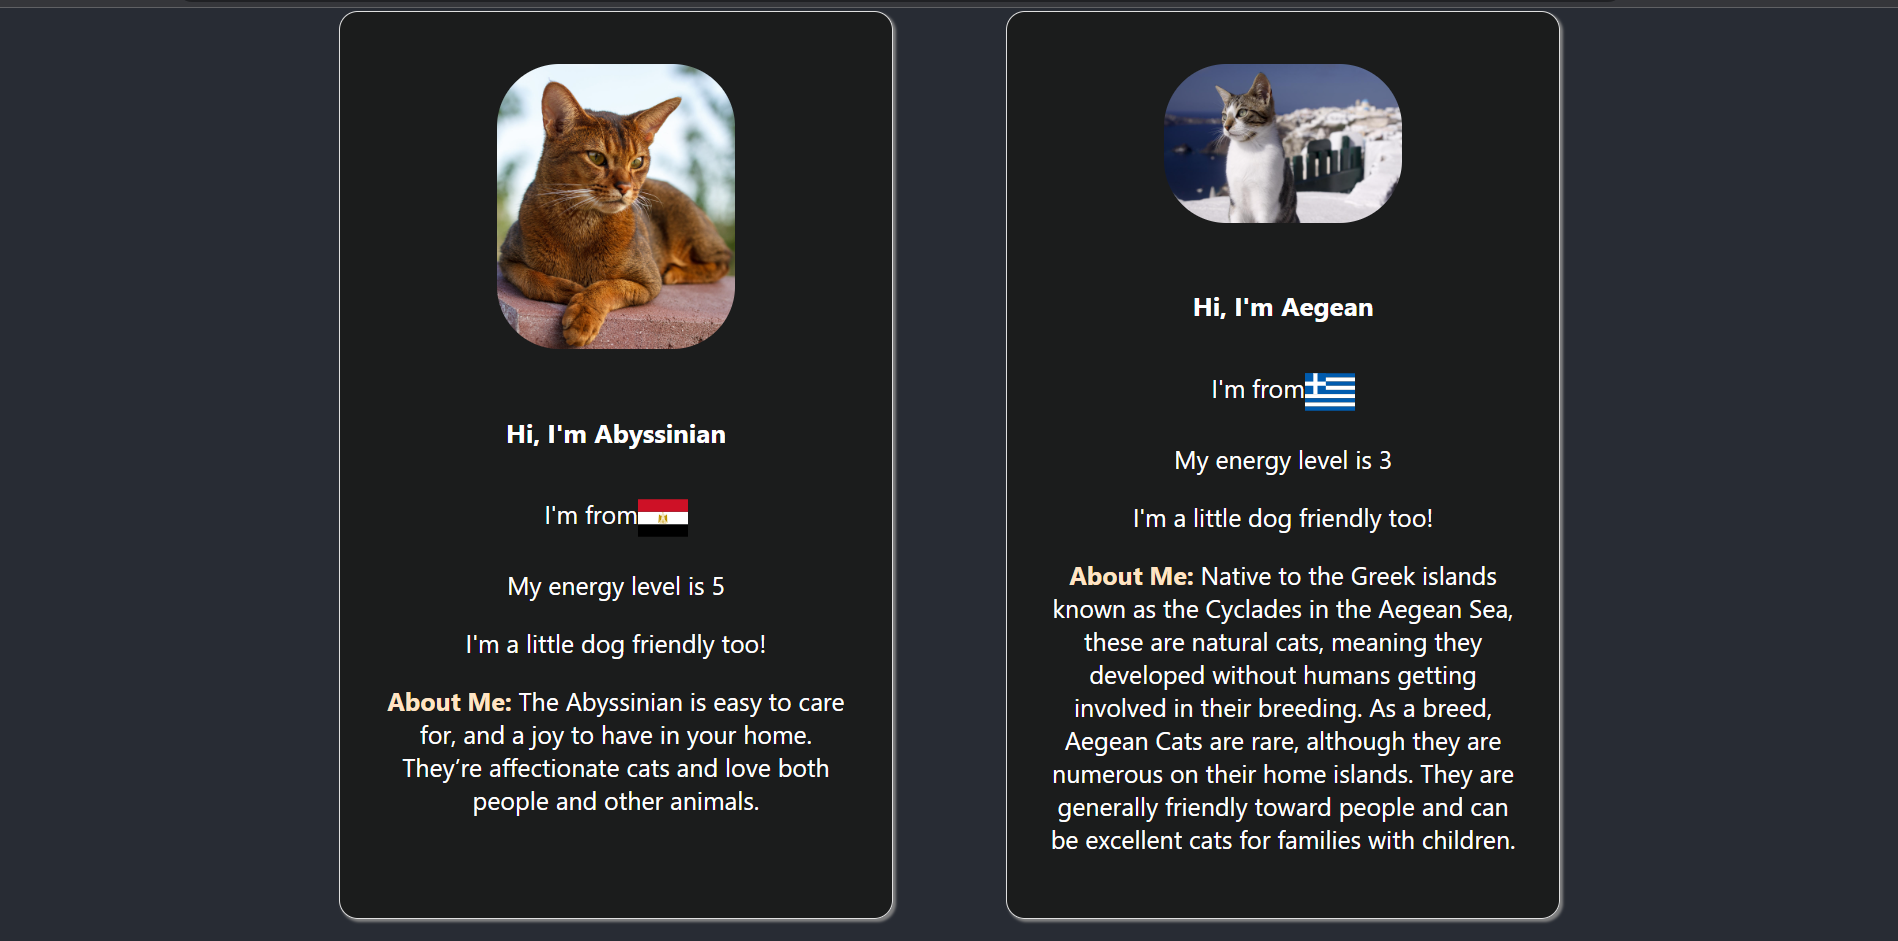
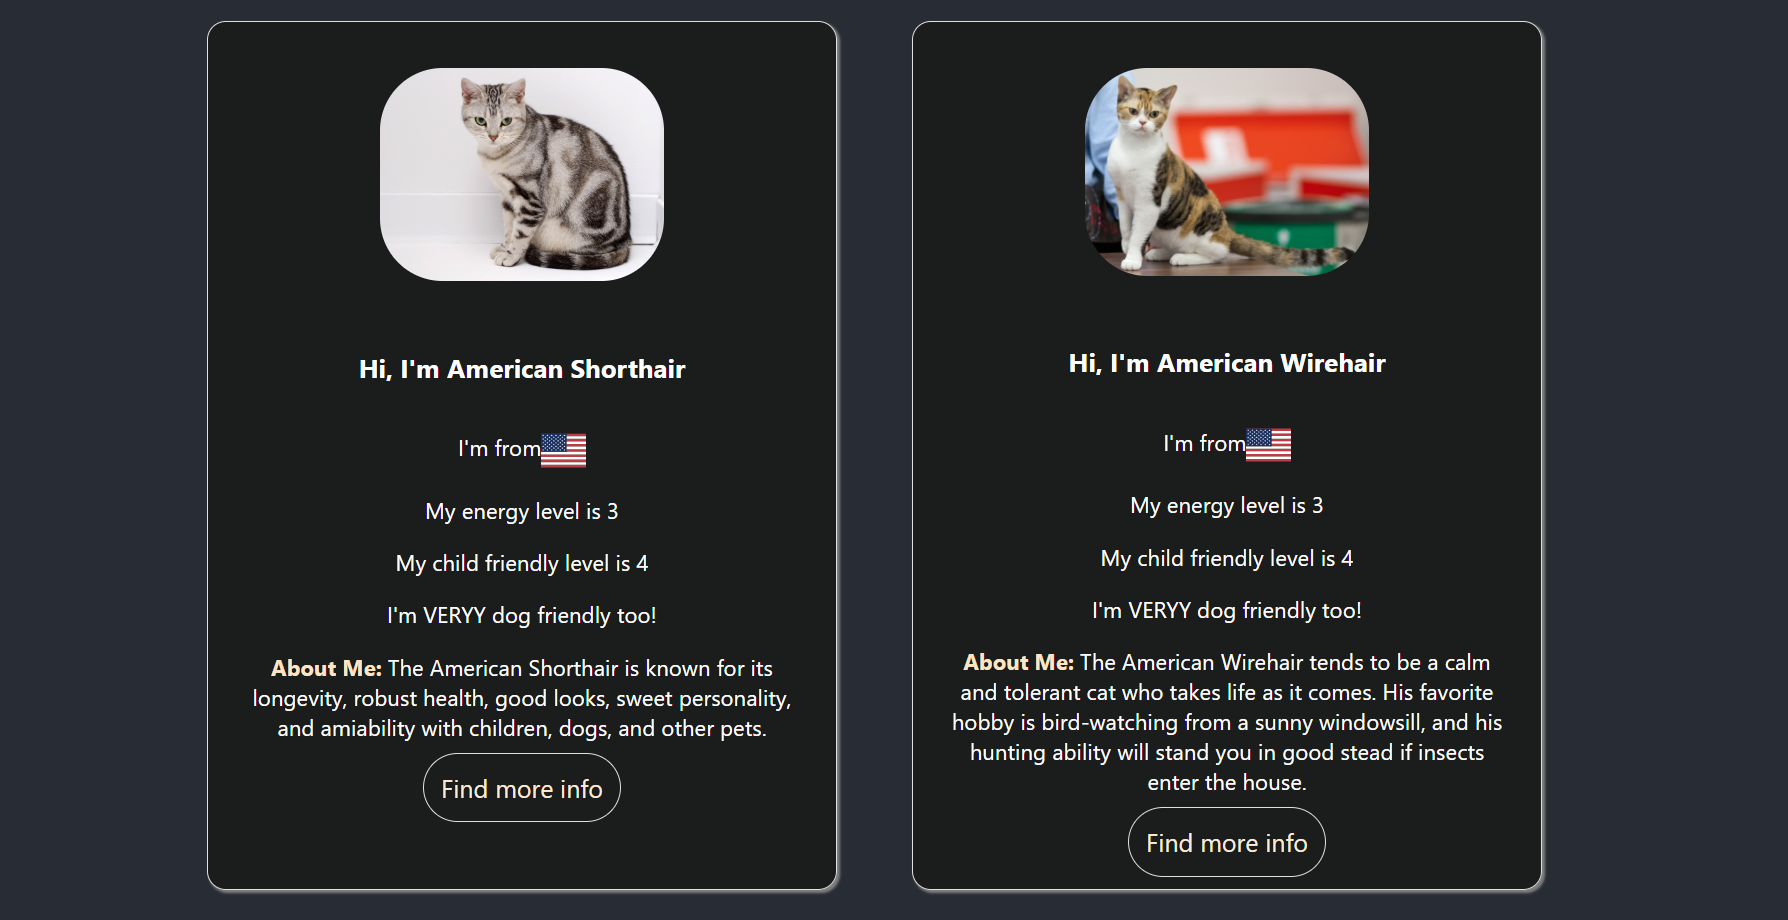
Update Readme file

diff --git a/src/Cat.js b/src/Cat.js
@@ -21,10 +21,12 @@ function Cat({cats}) {
                 />
               </p>
               <p className="desc"> My energy level is {cat.energy_level} </p>
+              <p className="desc"> My child friendly level is {cat.child_friendly} </p>
               <p className="desc"> I'm {cat.dog_friendly >= 5 ? "VERYY" : "a little"} dog friendly too! </p>
               <p className="desc">
               <span className="heading"> About Me:   </span> 
                 {cat.description}</p>
+                <a href={cat.wikipedia_url} className="link"> Find more info</a>
             </div>
           )
         })}

diff --git a/src/App.css b/src/App.css
@@ -60,11 +60,11 @@ button
 
 .card
 {
-  width: 25%;
-  margin: 3%;
+  width: 30%;
+  margin: 2%;
   border: 1px solid #e0e0e0;
   border-radius: 15px;
-  padding: 2%;
+  padding: 1.5%;
   box-shadow: 2px 2px 2px grey;
   background-color: rgba(26, 26, 26, 0.916);
 }
@@ -84,5 +84,17 @@ button
 }
 .desc
 {
-  font-size: medium;
+  font-size: small;
+}
+.link{
+  text-decoration: none;
+  color: antiquewhite;
+  border: 1px solid #e0e0e0;
+  padding: 3%;
+  border-radius: 50px;
+  font-size: 80%;
+}
+.link:hover{
+  background-color:beige;
+  color: #282c34;
 }

diff --git a/README.md b/README.md
@@ -1,12 +1,11 @@
-# Getting Started with Create React App
+# CATURDAY
+Caturday is a single page web application that gives you all the required info about almost ALL OF THE CATS breeds there are!
+Any important info like the origin country, complete cat description and where the cat should be... Try and have a good caturday!
+## How to run the project
+### 1. `npm install`
 
-This project was bootstrapped with [Create React App](https://github.com/facebook/create-react-app).
-
-## Available Scripts
-
-In the project directory, you can run:
-
-### `npm start`
+Installs all the required dependencies and creates a *node_modules* folder.
+### 2. `npm start`
 
 Runs the app in the development mode.\
 Open [http://localhost:3000](http://localhost:3000) to view it in your browser.
@@ -14,30 +13,10 @@ Open [http://localhost:3000](http://localhost:3000) to view it in your browser.
 The page will reload when you make changes.\
 You may also see any lint errors in the console.
 
-### `npm test`
+### 3. `npm test`
 
 Launches the test runner in the interactive watch mode.\
 See the section about [running tests](https://facebook.github.io/create-react-app/docs/running-tests) for more information.
-
-### `npm run build`
-
-Builds the app for production to the `build` folder.\
-It correctly bundles React in production mode and optimizes the build for the best performance.
-
-The build is minified and the filenames include the hashes.\
-Your app is ready to be deployed!
-
-See the section about [deployment](https://facebook.github.io/create-react-app/docs/deployment) for more information.
-
-### `npm run eject`
-
-**Note: this is a one-way operation. Once you `eject`, you can't go back!**
-
-If you aren't satisfied with the build tool and configuration choices, you can `eject` at any time. This command will remove the single build dependency from your project.
-
-Instead, it will copy all the configuration files and the transitive dependencies (webpack, Babel, ESLint, etc) right into your project so you have full control over them. All of the commands except `eject` will still work, but they will point to the copied scripts so you can tweak them. At this point you're on your own.
-
-You don't have to ever use `eject`. The curated feature set is suitable for small and middle deployments, and you shouldn't feel obligated to use this feature. However we understand that this tool wouldn't be useful if you couldn't customize it when you are ready for it.
 
 ## Learn More
 
@@ -45,26 +24,3 @@ You can learn more in the [Create React App documentation](https://facebook.gith
 
 To learn React, check out the [React documentation](https://reactjs.org/).
 
-### Code Splitting
-
-This section has moved here: [https://facebook.github.io/create-react-app/docs/code-splitting](https://facebook.github.io/create-react-app/docs/code-splitting)
-
-### Analyzing the Bundle Size
-
-This section has moved here: [https://facebook.github.io/create-react-app/docs/analyzing-the-bundle-size](https://facebook.github.io/create-react-app/docs/analyzing-the-bundle-size)
-
-### Making a Progressive Web App
-
-This section has moved here: [https://facebook.github.io/create-react-app/docs/making-a-progressive-web-app](https://facebook.github.io/create-react-app/docs/making-a-progressive-web-app)
-
-### Advanced Configuration
-
-This section has moved here: [https://facebook.github.io/create-react-app/docs/advanced-configuration](https://facebook.github.io/create-react-app/docs/advanced-configuration)
-
-### Deployment
-
-This section has moved here: [https://facebook.github.io/create-react-app/docs/deployment](https://facebook.github.io/create-react-app/docs/deployment)
-
-### `npm run build` fails to minify
-
-This section has moved here: [https://facebook.github.io/create-react-app/docs/troubleshooting#npm-run-build-fails-to-minify](https://facebook.github.io/create-react-app/docs/troubleshooting#npm-run-build-fails-to-minify)
